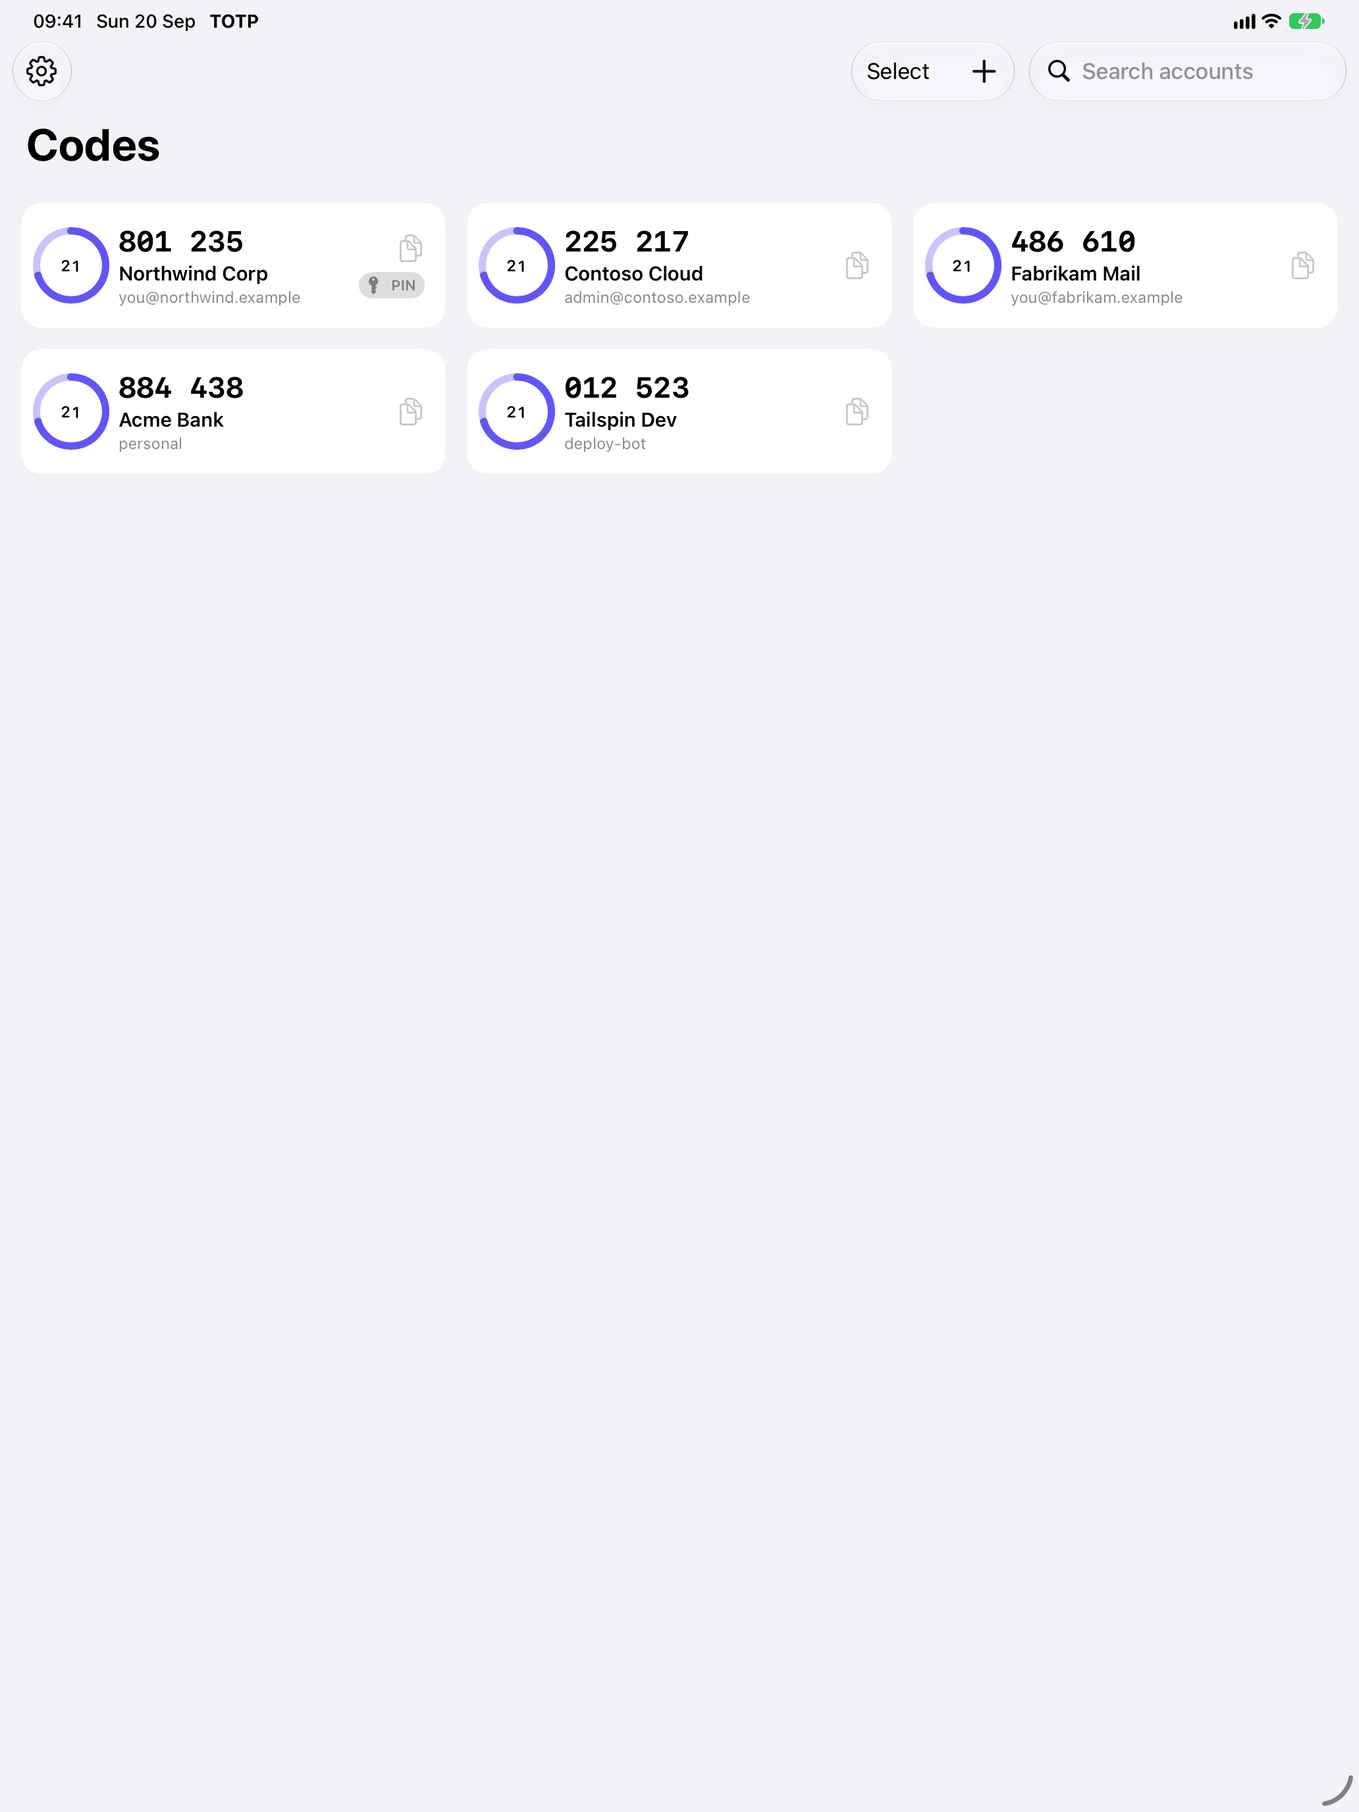
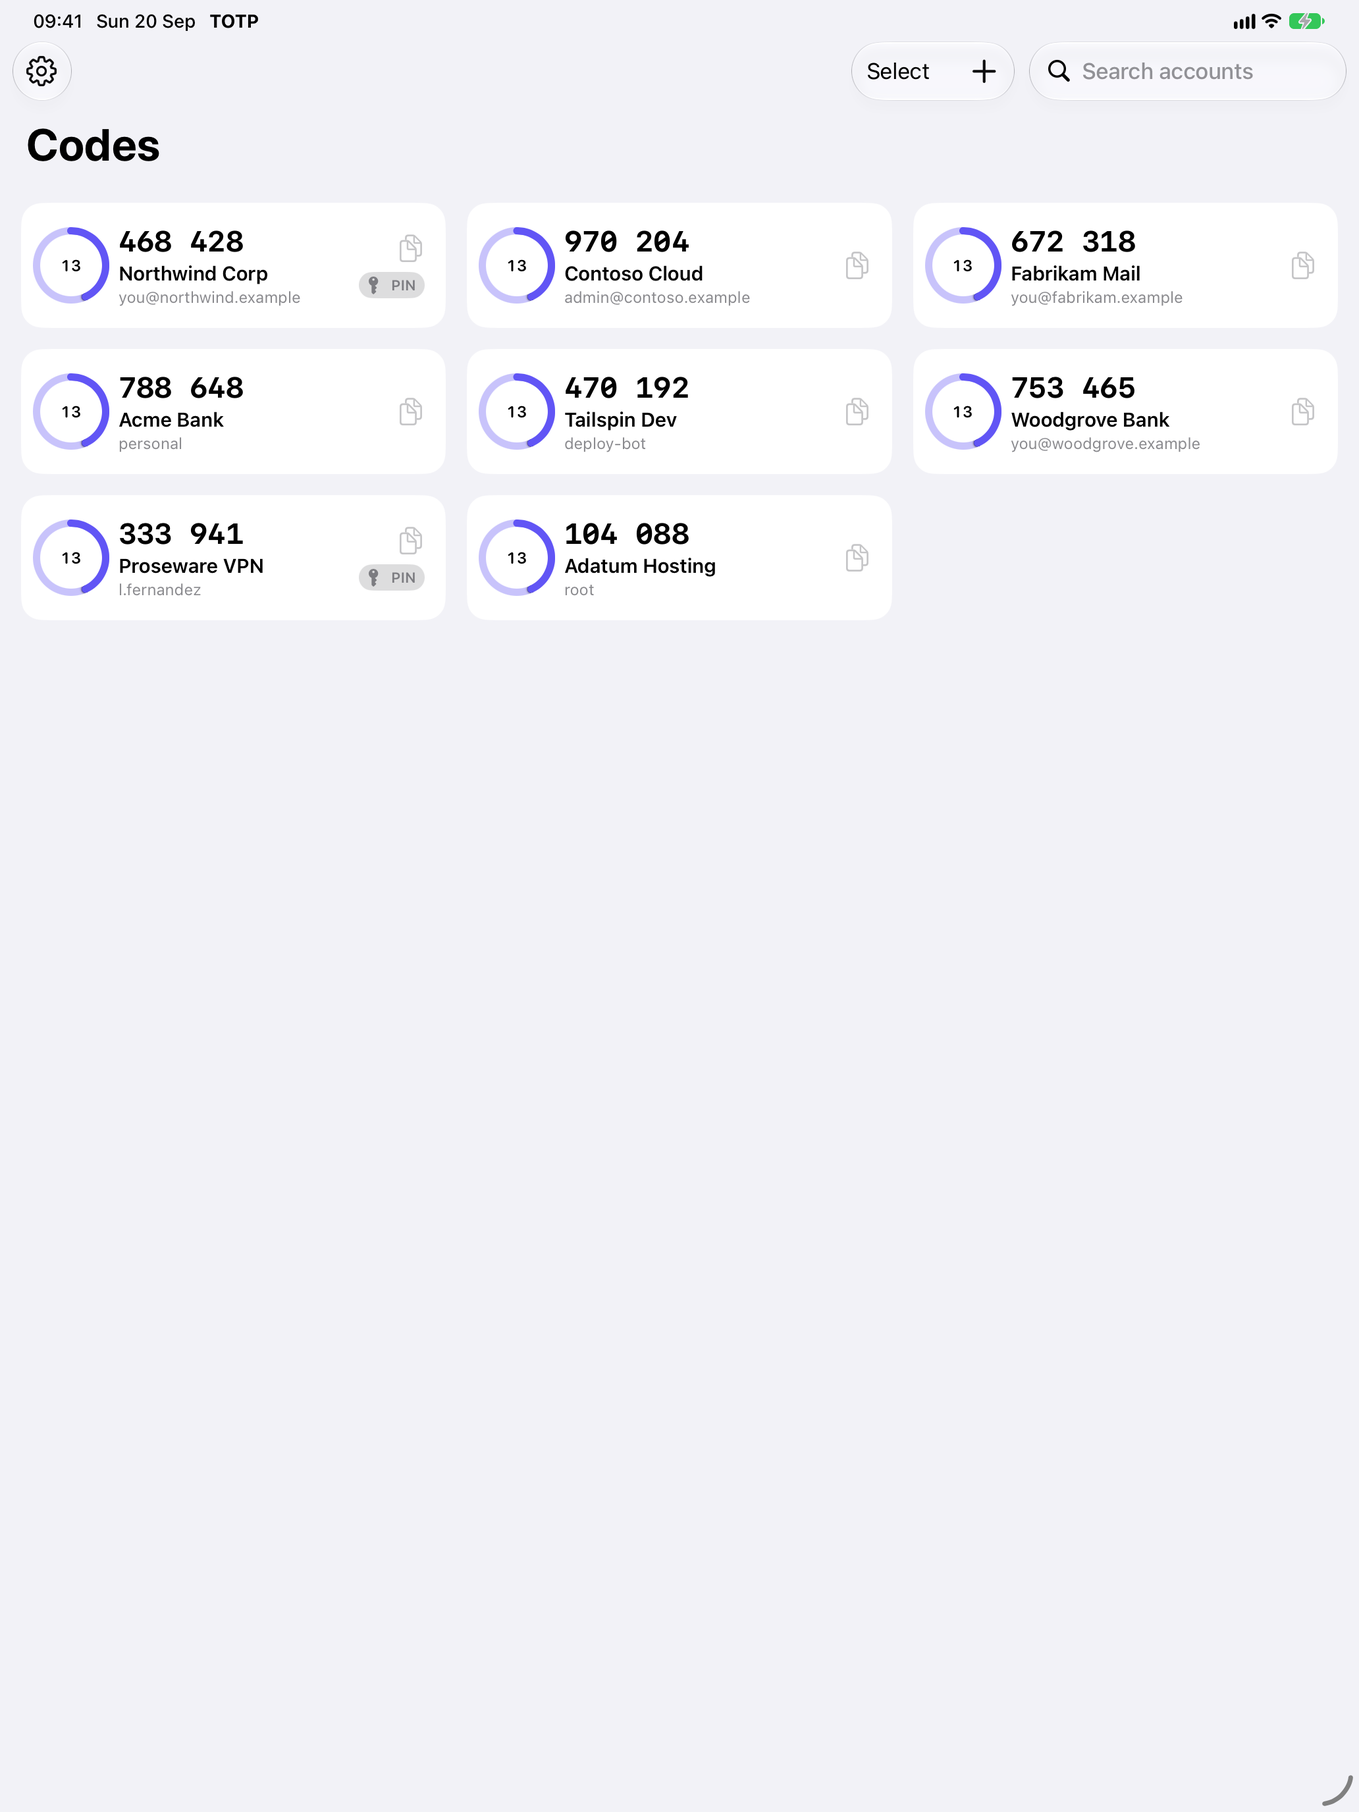
feat(macos): capture Mac App Store screenshots without UI automation
macOS UI tests need Accessibility permission, which the export script doesn't
have, so the Mac listing had a single hand-taken screenshot. Each shot now
relaunches the app with `-ScreenshotMode -ScreenshotScene <select|add>` and
opens that state directly; both flags are `#if DEBUG` only.

Getting the rect right needed two fixes:

- `NSScreen.main` is the *focused* screen, not the primary one. With a second
  display attached the window was positioned in a different coordinate space
  from the one `screencapture -R` works in, so the capture missed it entirely.
  Everything is now pinned to `NSScreen.screens.first`.
- AppKit keeps a window's bottom-left origin when SwiftUI makes it taller than
  requested, so entering select mode grew the window upwards and pushed the
  title bar out of frame. The last positioning pass re-anchors the top edge,
  and the app then reports the frame it actually ended up with to the App Group
  container — the script captures that rect instead of assuming one.

Also widens the screenshot seed to eight fictional accounts so the grid looks
populated on iPad and Mac, and adds a `screenshots_upload` lane that skips
deliver's metadata step (fastlane #20538 crashes on an app with no App Store
review detail, which it can't create without a contact phone number).

diff --git a/TOTP/TOTPApp.swift b/TOTP/TOTPApp.swift
@@ -55,7 +55,7 @@ struct TOTPApp: App {
         #if os(macOS)
         // Menu bar icon with the list of codes. The icon is static on purpose: macOS 27
         // hosts all status items in one window, and frequently changing items are costly.
-        MenuBarExtra("TOTP Authenticator", systemImage: "lock.shield.fill") {
+        MenuBarExtra("TOTP Password", systemImage: "lock.shield.fill") {
             MenuBarView()
                 .environmentObject(syncManager)
         }
@@ -139,7 +139,75 @@ class MacAppDelegate: NSObject, NSApplicationDelegate {
         MacOSAppSettings.shared.applyDockIconPolicy()
         // The main window is suppressed at launch, so start syncing here rather than from a view.
         Task { @MainActor in SyncManager.shared.startIfNeeded() }
+        #if DEBUG
+        positionWindowForScreenshotsIfNeeded()
+        #endif
     }
+
+    #if DEBUG
+    /// Puts the window at a known place and size so `scripts/export-screenshots.sh` can capture it
+    /// without needing Accessibility permission. 1440x900 points captures at 2880x1800 — an
+    /// App Store–accepted Mac size.
+    private func positionWindowForScreenshotsIfNeeded() {
+        guard AppEnvironment.isTakingScreenshots else { return }
+        // Always the primary (menu bar) display: its frame origin is (0, 0), which is the space
+        // `screencapture -R` works in. `NSScreen.main` is the *focused* screen, so on a machine
+        // with a second display it silently puts the window in another coordinate space.
+        guard let screen = NSScreen.screens.first else { return }
+
+        let size = CGSize(width: 1440, height: 900)
+        let insetFromTop: CGFloat = 100
+
+        // A scene can end up with a second, empty main window on top of the real one. The window
+        // we want is the one carrying the toolbar; the rest are ordered out so they can't be shot.
+        func mainWindows() -> [NSWindow] {
+            let titled = NSApp.windows.filter {
+                $0.isVisible && $0.canBecomeMain && $0.styleMask.contains(.titled) && !($0 is NSPanel)
+            }
+            let withToolbar = titled.filter { $0.toolbar != nil }
+            guard !withToolbar.isEmpty else { return titled }
+            for extra in titled where extra.toolbar == nil {
+                extra.orderOut(nil)
+            }
+            return withToolbar
+        }
+
+        // Applied several times because presenting a sheet or entering select mode rebuilds the
+        // toolbar afterwards, and SwiftUI re-lays out the window once that happens.
+        for delay in [1.5, 4.0, 7.0] {
+            DispatchQueue.main.asyncAfter(deadline: .now() + delay) {
+                let frame = CGRect(x: screen.frame.minX + 100,
+                                   y: screen.frame.maxY - insetFromTop - size.height,
+                                   width: size.width, height: size.height)
+                for window in mainWindows() {
+                    window.setFrame(frame, display: true)
+                }
+                NSApp.activate(ignoringOtherApps: true)
+                mainWindows().last?.makeKeyAndOrderFront(nil)
+            }
+        }
+
+        DispatchQueue.main.asyncAfter(deadline: .now() + 9.5) {
+            // AppKit keeps the origin (bottom-left) when SwiftUI makes the window taller than we
+            // asked, so it grows upwards. Re-anchor the top edge without touching the size.
+            for window in mainWindows() {
+                window.setFrameOrigin(CGPoint(
+                    x: screen.frame.minX + 100,
+                    y: screen.frame.maxY - insetFromTop - window.frame.height
+                ))
+            }
+            // Report where the window actually ended up — AppKit can still clamp it — in
+            // screencapture's coordinates: points, origin at the top-left of the primary display.
+            guard let window = mainWindows().last,
+                  let container = FileManager.default.containerURL(
+                      forSecurityApplicationGroupIdentifier: AppGroup.identifier) else { return }
+            let frame = window.frame
+            let report = "\(Int(frame.minX)),\(Int(screen.frame.maxY - frame.maxY)),\(Int(size.width)),\(Int(size.height))\n"
+            try? report.write(to: container.appendingPathComponent("screenshot-window-frame"),
+                              atomically: true, encoding: .utf8)
+        }
+    }
+    #endif
 
     func application(_ application: NSApplication, didFailToRegisterForRemoteNotificationsWithError error: Error) {
         logger.error("Remote notification registration failed: \(error.localizedDescription, privacy: .public)")

diff --git a/TOTP/Model/SharedDataManager.swift b/TOTP/Model/SharedDataManager.swift
@@ -33,6 +33,21 @@ public enum AppEnvironment {
         return false
         #endif
     }()
+
+    /// `-ScreenshotScene <name>`: the state the app should open in for one App Store screenshot.
+    /// The Mac shots are taken by `scripts/export-screenshots.sh`, which can't drive the UI
+    /// (clicking needs Accessibility permission), so each shot launches straight into its state.
+    public static let screenshotScene: String? = {
+        #if DEBUG
+        guard isTakingScreenshots else { return nil }
+        let arguments = ProcessInfo.processInfo.arguments
+        guard let flag = arguments.firstIndex(of: "-ScreenshotScene"),
+              arguments.index(after: flag) < arguments.endIndex else { return nil }
+        return arguments[arguments.index(after: flag)]
+        #else
+        return nil
+        #endif
+    }()
 }
 
 public final class SharedDataManager: ObservableObject, @unchecked Sendable {
@@ -240,7 +255,10 @@ public final class SharedDataManager: ObservableObject, @unchecked Sendable {
             account("Contoso Cloud", "admin@contoso.example", secret: "abcdefghij1234567890", domain: "login.contoso.example"),
             account("Fabrikam Mail", "you@fabrikam.example", secret: "qrstuvwxyz0987654321"),
             account("Acme Bank", "personal", secret: "0987654321zyxwvutsrq"),
-            account("Tailspin Dev", "deploy-bot", secret: "mnopqrstuv5647382910")
+            account("Tailspin Dev", "deploy-bot", secret: "mnopqrstuv5647382910"),
+            account("Woodgrove Bank", "you@woodgrove.example", secret: "5647382910mnopqrstuv"),
+            account("Proseware VPN", "l.fernandez", secret: "vutsrqponm0192837465", prefix: "77"),
+            account("Adatum Hosting", "root", secret: "1029384756zyxwvutsrq")
         ]
     }
 

diff --git a/TOTP/View/ContentView.swift b/TOTP/View/ContentView.swift
@@ -85,6 +85,9 @@ public struct ContentView: View {
                 .refreshable { await syncManager.refresh() }
         }
         .focusedSceneValue(\.addAccountAction, AddAccountAction { sheet = .add(nil) })
+        #if DEBUG
+        .task { applyScreenshotScene() }
+        #endif
         .sensoryFeedback(.success, trigger: copyCount)
         .sheet(item: $sheet) { sheet in
             sheetContent(sheet)
@@ -290,6 +293,22 @@ public struct ContentView: View {
     }
 
     // MARK: - Chrome
+
+    #if DEBUG
+    /// Opens the state named by `-ScreenshotScene` so `scripts/export-screenshots.sh` can shoot the
+    /// Mac listing without Accessibility permission. Debug-only: release builds ignore the argument.
+    private func applyScreenshotScene() {
+        switch AppEnvironment.screenshotScene {
+        case "select":
+            isSelecting = true
+            selection = Set(syncManager.accounts.prefix(3).map(\.id))
+        case "add":
+            sheet = .add(nil)
+        default:
+            break
+        }
+    }
+    #endif
 
     @ToolbarContentBuilder
     private var toolbarContent: some ToolbarContent {

diff --git a/docs/RELEASE.md b/docs/RELEASE.md
@@ -51,7 +51,7 @@ $EDITOR fastlane/metadata/ios/en-US/release_notes.txt
 cp fastlane/metadata/ios/en-US/release_notes.txt fastlane/metadata/mac/en-US/release_notes.txt
 
 # 4. Screenshots, if the UI changed
-scripts/export-screenshots.sh     # iPhone + iPad; Mac shots are manual, see below
+scripts/export-screenshots.sh     # iPhone + iPad + Mac
 
 # 5. Archive and upload the binaries (the release-totp skill has the full commands)
 
@@ -64,11 +64,25 @@ Then open App Store Connect, check both versions, attach the builds and submit b
 
 ## Mac screenshots
 
-macOS UI tests need automation permission and `screencapture` needs Screen Recording, so these are
-captured by hand: ⌘⇧4 then space, click the window, then pad to an accepted 16:10 size:
+macOS UI tests need Accessibility permission, which the script doesn't have, so the Mac shots are
+driven from launch arguments instead of clicks. `scripts/export-screenshots.sh` relaunches the app
+once per shot with `-ScreenshotMode -ScreenshotScene <name>` (`select`, `add`, or nothing for the
+plain list); `ContentView.applyScreenshotScene()` opens that state directly. Both flags are
+`#if DEBUG` only — a release build ignores them.
+
+The app sizes its own window to 1440×900 points, which captures at 2880×1800. AppKit can still
+move it (the menu bar clamps it, and `NSScreen.main` is the *focused* screen, not necessarily the
+one being captured), so the app writes the frame it actually ended up with to
+`~/Library/Group Containers/group.com.lucferbux.TOTP/screenshot-window-frame` and the script
+captures exactly that rect.
+
+The one permission this does need is **Screen Recording**, for whatever runs the script
+(System Settings ▸ Privacy & Security ▸ Screen & System Audio Recording). Without it the captures
+come out empty and the script says so. To fall back to doing it by hand — ⌘⇧4, space, click the
+window — pad the result to an accepted size:
 
 ```bash
-sips --padToHeightWidth 1800 2880 shot.png --out fastlane/screenshots_mac/en-US/01-mac.png
+sips --padToHeightWidth 1800 2880 shot.png --out fastlane/screenshots_mac/en-US/01-codes.png
 ```
 
 Accepted Mac sizes: 1280×800, 1440×900, 2560×1600, 2880×1800.
@@ -76,6 +90,14 @@ Accepted Mac sizes: 1280×800, 1440×900, 2560×1600, 2880×1800.
 ## Notes
 
 - **Screenshots are per platform**, and are not shared by Universal Purchase.
+- **`release_notes` (What's New) can't be set on a first version** — App Store Connect rejects
+  `whatsNew` with `STATE_ERROR` until the app has a released version to describe changes against.
+- **The build is attached separately from the metadata.** `fastlane metadata` never picks one; set
+  it in App Store Connect, or PATCH `/v1/appStoreVersions/{id}/relationships/build`.
+- **App Review contact details** (`fastlane/metadata/*/review_information/`) need a
+  `phone_number.txt` and `email_address.txt`. Without them the review-detail record can't be
+  created, and deliver's metadata step then dies with "No data" (fastlane #20538) — which is why
+  the `screenshots_upload` lane exists as a `skip_metadata` path around it.
 - **`promotional_text`** can be changed without shipping a new version; everything else on the
   version cannot.
 - A new CloudKit field needs *Deploy Schema Changes* in the CloudKit Console before release — see

diff --git a/CLAUDE.md b/CLAUDE.md
@@ -5,7 +5,7 @@ conventions. [AGENTS.md](AGENTS.md) is the portable summary for other agents —
 
 ## Project Overview
 
-**TOTP Authenticator** — a native, multi-platform SwiftUI authenticator that generates 2FA codes per **RFC 4226 (HOTP)** and **RFC 6238 (TOTP)**. Single codebase shipping to **iPhone, iPad, and Mac** (Universal Purchase), with **iCloud/CloudKit sync**, a **home-screen Widget**, an **AutoFill credential provider**, and a **macOS menu bar** mode. No third-party dependencies — 100% Apple frameworks.
+**TOTP Password** — a native, multi-platform SwiftUI authenticator that generates 2FA codes per **RFC 4226 (HOTP)** and **RFC 6238 (TOTP)**. Single codebase shipping to **iPhone, iPad, and Mac** (Universal Purchase), with **iCloud/CloudKit sync**, a **home-screen Widget**, an **AutoFill credential provider**, and a **macOS menu bar** mode. No third-party dependencies — 100% Apple frameworks.
 
 - **Language / mode:** Swift (Swift 5 language mode — `SWIFT_VERSION = 5.0`)
 - **UI:** SwiftUI with the **iOS 26 "Liquid Glass"** design language
@@ -225,7 +225,7 @@ PlatformColors.secondarySystemGroupedBackground
   - `build-run-totp` — build & launch on the iOS Simulator or macOS (the built-in `/run` and `verify` skills discover it).
   - `test-totp` — run the unit / UI suites.
   - `release-totp` — version bump, archive and App Store Connect upload (pre-flight checks included).
-- **App Store metadata** (`fastlane/`): listing copy lives in `fastlane/metadata/{ios,mac}/en-US/*.txt` and is pushed with `fastlane metadata`. App-level fields (name, subtitle, privacy URL, categories) are shared across platforms by App Store Connect, so they live **only** in the iOS tree — duplicating them lets one lane overwrite the other platform. No lane ever submits for review. Screenshots come from `scripts/export-screenshots.sh`. See [docs/RELEASE.md](docs/RELEASE.md).
+- **App Store metadata** (`fastlane/`): listing copy lives in `fastlane/metadata/{ios,mac}/en-US/*.txt` and is pushed with `fastlane metadata`. App-level fields (name, subtitle, privacy URL, categories) are shared across platforms by App Store Connect, so they live **only** in the iOS tree — duplicating them lets one lane overwrite the other platform. No lane ever submits for review. Screenshots come from `scripts/export-screenshots.sh`: iPhone and iPad from the UI tests, Mac by relaunching the app per shot with `-ScreenshotMode -ScreenshotScene <select|add>` (both `#if DEBUG` only) because macOS UI automation needs Accessibility permission. The app reports the window frame it actually got to the App Group container, so the capture never assumes a rect. `whatsNew` can't be set on a first version, and the build is attached separately from the metadata. See [docs/RELEASE.md](docs/RELEASE.md).
 - **Website** (`site/`): landing page, privacy policy and support page, published to GitHub Pages by `.github/workflows/pages.yml`. Never switch Pages to the `docs/` folder — Jekyll would publish the internal architecture docs as indexable pages.
 - **Hooks** (`scripts/swift-guardrails.sh`, wired as a `PostToolUse` hook for `Write|Edit`):
   warns after editing a Swift file that uses `.foregroundColor`, `.spring()`, `.shadow()`,

diff --git a/AGENTS.md b/AGENTS.md
@@ -6,7 +6,7 @@ Guide for AI coding agents working in this repository. Claude Code additionally 
 
 ## What this project is
 
-**TOTP Authenticator** — a native SwiftUI authenticator (RFC 4226 HOTP / RFC 6238 TOTP) shipping
+**TOTP Password** — a native SwiftUI authenticator (RFC 4226 HOTP / RFC 6238 TOTP) shipping
 from one codebase to iPhone, iPad and Mac (Universal Purchase), with iCloud/CloudKit sync, widgets
 and a Control, an AutoFill credential provider, Siri/Shortcuts/Spotlight intents, and a macOS menu
 bar mode. **No third-party dependencies — 100% Apple frameworks.**
@@ -105,16 +105,20 @@ iCloud container `iCloud.com.lucferbux.TOTP`.
 **Release**
 20. Listing copy lives in `fastlane/metadata/`; app-level fields (name, subtitle, privacy URL,
     categories) only in the iOS tree, since App Store Connect shares them across platforms.
-21. No automation submits for review — lanes leave drafts for a human.
+21. No automation submits for review — lanes leave drafts for a human. Attaching the build is a
+    separate step from pushing metadata, and `whatsNew` can't be set on a first version.
 22. The website is `site/`, published by GitHub Actions. Never point Pages at `docs/`.
+23. Screenshots come from `scripts/export-screenshots.sh`. The Mac shots are driven by
+    `-ScreenshotMode -ScreenshotScene <name>` (debug-only launch arguments) rather than UI
+    automation, which would need Accessibility permission.
 
 **Workflow**
-23. Conventional Commits: `type(scope): subject` with
+24. Conventional Commits: `type(scope): subject` with
     types `feat|fix|docs|style|refactor|test|chore` and
     scopes `app|widget|autofill|otp|storage|sync|ui|security|macos|intents`.
-24. Don't commit or push unless asked. Branch before committing on `main`.
-25. Update `CLAUDE.md`, `AGENTS.md`, `README.md` and `docs/RFE.md` when behaviour or structure changes.
-26. Don't add third-party dependencies, and don't change an identifier in only one place.
+25. Don't commit or push unless asked. Branch before committing on `main`.
+26. Update `CLAUDE.md`, `AGENTS.md`, `README.md` and `docs/RFE.md` when behaviour or structure changes.
+27. Don't add third-party dependencies, and don't change an identifier in only one place.
 
 ## Release
 

diff --git a/fastlane/README.md b/fastlane/README.md
@@ -28,11 +28,21 @@ export ASC_KEY_PATH=~/.appstoreconnect/private_keys/AuthKey_XXXXXXXXXX.p8
 ## Lanes
 
 ```bash
-fastlane metadata      # push text + screenshots for both platforms (no binary, no submission)
-fastlane metadata_text # text only — quicker while iterating on copy
-fastlane precheck_all  # Apple's own metadata checks before you push
-fastlane screenshots   # regenerate screenshots from the UI tests
+fastlane metadata           # push text + screenshots for both platforms (no binary, no submission)
+fastlane metadata_text      # text only — quicker while iterating on copy
+fastlane screenshots_upload # screenshots only, skipping deliver's metadata step
+fastlane precheck_all       # Apple's own metadata checks before you push
+fastlane screenshots        # regenerate screenshots from the UI tests
 ```
+
+`screenshots_upload` exists because deliver's metadata step dies with "No data" when the app has no
+App Store review detail yet (fastlane #20538), and it can't create one without a contact phone
+number. Fill in `review_information/phone_number.txt` and `email_address.txt` and `metadata` works
+on its own again.
+
+Two things no lane does: **attaching the build** to the version, and **`release_notes`** on a first
+version — App Store Connect rejects `whatsNew` until there is a released version to describe changes
+against.
 
 ## Things the API cannot do
 
